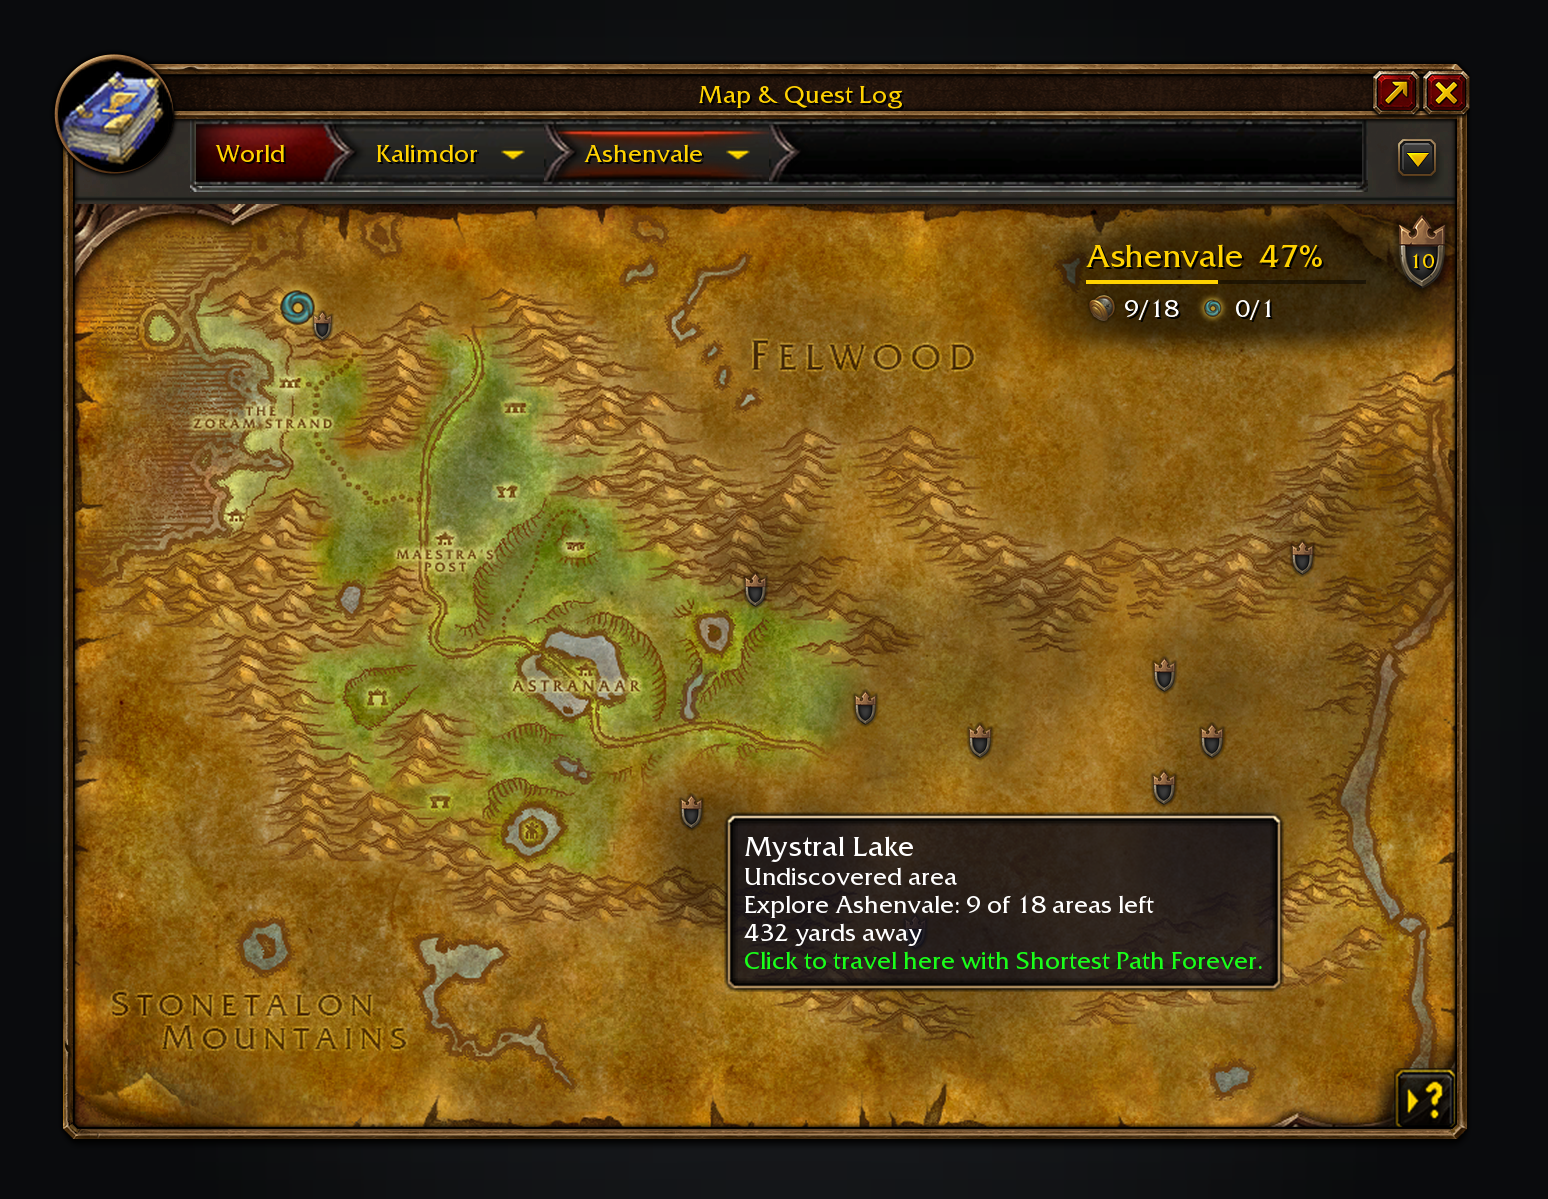
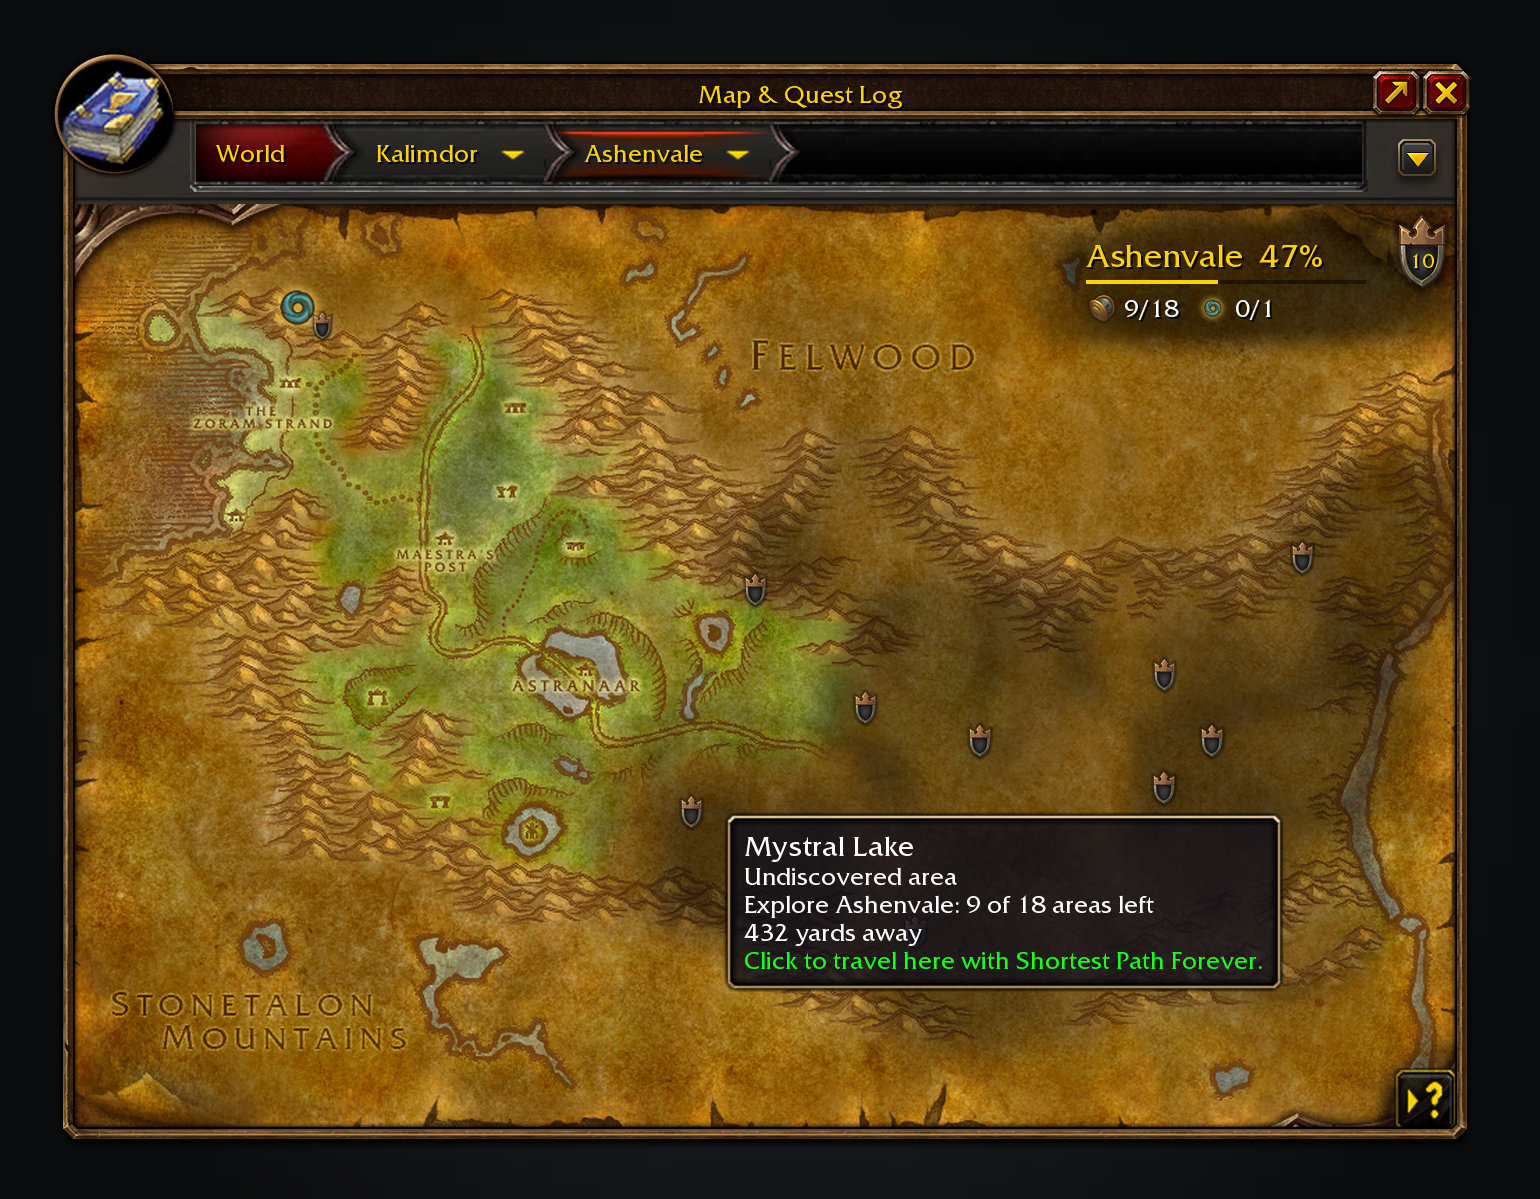
fix(map): draw area shading under other map markers (#488)
Area shading now draws under every other map marker, including Leatrix
Plus discovery pins and dungeon entrances.

- Area pins use the client's `PIN_FRAME_LEVEL_FOG_OF_WAR` level
(registered in `Blizzard_WorldMap`, used by `FogOfWarDataProvider`), so
other providers' pins sit above them. The manual `SetFrameLevel` /
`AreaLevel` is gone.
- The fade under outlined areas stays.

## Screenshot (mock render, head SHA)

![outlines](https://raw.githubusercontent.com/cjber/legacy-forever/b64b10c36b4b094a74097325f8bf20db64531e96/docs/screenshots/outlines.png)

## Target mocks from the issue

![mock](https://gist.githubusercontent.com/cjber/c5f910706d7357ab5f6601c9e6ca7946/raw/6645133a1770c516676333624c2e8b25ad4c7f12/485-target-both.png

https://gist.githubusercontent.com/cjber/c5f910706d7357ab5f6601c9e6ca7946/raw/6645133a1770c516676333624c2e8b25ad4c7f12/485-target-detail.png

https://gist.githubusercontent.com/cjber/c5f910706d7357ab5f6601c9e6ca7946/raw/6645133a1770c516676333624c2e8b25ad4c7f12/485-target-markers.png)

## /reload tests

1. Turn on each discover option alone, open Ashenvale: shading sits
under dungeon and Leatrix markers, markers stay clickable.
2. Both options together: same.
3. With Leatrix Plus disabled: shading and tooltips as before.

Gate: stylua, luacheck, every spec on ForeverCore v1.8.1.

Closes #485

🤖 Generated with [Claude Code](https://claude.com/claude-code)

https://claude.ai/code/session_01UkMWrygH9uoEwnn7ATzXHP

diff --git a/tools/screenshots.py b/tools/screenshots.py
@@ -524,7 +524,7 @@ def corner_origin(rects, art, zone, pins, width, height):
 def world_map(ui, data, live, ui_map=ASHENVALE, collapsed=False, entrance=False, outlines=None):
     """The world map on a Kalimdor zone with the addon's shading, pins, corner and button drawn in.
     `outlines` = {"zone": Data/Explore.lua's zone, "player_area": name, "hover": name} fills the areas that
-    have rings from their terrain instead of the map art, and draws the hovered pin's tooltip."""
+    have rings from their terrain on top of the dark fade, and draws the hovered pin's tooltip."""
     zone = data["completion"][ui_map]
     name = ui.table("UiMap")[str(ui_map)]["Name_lang"]
     content = ui.content
@@ -533,11 +533,10 @@ def world_map(ui, data, live, ui_map=ASHENVALE, collapsed=False, entrance=False,
     for overlay in map_overlays(content, ui_map):
         if overlay.key in live.explored:
             draw_overlay(content, art, overlay.offset_x, overlay.offset_y, overlay.width, overlay.height, overlay.tiles)
-    # AreaPin (UI/Map.lua): every undiscovered area's tiles, black at AREA_ALPHA, except the areas the
-    # outline layer draws instead (MapContents.Shade).
-    outlined = outlines["zone"]["areas"] if outlines else {}
+    # AreaPin (UI/Map.lua): every undiscovered area's tiles, black at AREA_ALPHA. The outline layer fills its
+    # areas on top, so both switches on keep the dark fade under the terrain fill.
     for area in zone["areas"]:
-        if area["key"] not in live.explored and area["key"] not in outlined:
+        if area["key"] not in live.explored:
             x, y, w, h = (int(n) for n in area["key"].split(":"))
             draw_overlay(content, art, x, y, w, h, area["tiles"], (0, 0, 0, 0.25), zone["tileWidth"])
     canvas, rects = world_map_frame(ui, art, ("World", "Kalimdor", name), arrows=("Kalimdor", name))
@@ -796,8 +795,8 @@ def zone_pin(ui, canvas, x, y, portal=None):
 
 
 def render_outlines(ui, data, live):
-    """Ashenvale with "Show where to discover areas" on: each undiscovered area shaded in its real shape, a
-    shield at its nearest edge, and the hovered pin's tooltip over Mystral Lake."""
+    """Ashenvale with both discover switches on: each undiscovered area keeps the dark fade and adds its real
+    ground shaded in its own shape, a shield at its nearest edge, and the hovered pin's tooltip over Mystral Lake."""
     explore = load_explore()["zones"][ASHENVALE]
     canvas, _ = world_map(
         ui,

diff --git a/tools/screenshots_outlines.py b/tools/screenshots_outlines.py
@@ -59,13 +59,18 @@ def shading_masks(root):
 
 
 def outline_shading(canvas, rects, zone, explore_zone, live, hover, masks_root=None, ui_map_id=None):
-    """Composite each runtime mask once, with the same normal and hover opacity."""
+    """Composite each runtime mask once, with the same normal and hover opacity, clipped to the map art.
+
+    UI/Map.lua gives every mask the map's own mask texture, so a fade that reaches the map's edge stops there.
+    """
     mx, my, mw, mh = rects["map"]
     masks = shading_masks(masks_root or Path(__file__).resolve().parent.parent)
     if ui_map_id is None:
         raise ValueError("outline_shading requires ui_map_id for the zone-qualified mask manifest")
     zone_masks = masks[ui_map_id]
     areas = outline_areas(zone, explore_zone, live)
+    map_left, map_top = canvas.px(mx), canvas.px(my)
+    layer = Image.new("RGBA", (canvas.px(mx + mw) - map_left, canvas.px(my + mh) - map_top), (0, 0, 0, 0))
     for area, _rings in areas:
         alpha = AREA_HOVER_ALPHA if area["name"] == hover else AREA_ALPHA
         descriptor = zone_masks[area["key"]]
@@ -77,5 +82,12 @@ def outline_shading(canvas, rects, zone, explore_zone, live, hover, masks_root=N
         scale_y = canvas.px(my + mh) - canvas.px(my)
         mask = mask.resize((round(width * scale_x / 1002), round(height * scale_y / 668)), Image.Resampling.BILINEAR)
         mask.putalpha(mask.getchannel("A").point(lambda value, scale=alpha: round(value * scale)))
-        canvas.image.alpha_composite(mask, (canvas.px(mx + left / 1002 * mw), canvas.px(my + top / 668 * mh)))
+        layer.alpha_composite(
+            mask,
+            (
+                canvas.px(mx + left / 1002 * mw) - map_left,
+                canvas.px(my + top / 668 * mh) - map_top,
+            ),
+        )
+    canvas.image.alpha_composite(layer, (map_left, map_top))
     return areas

diff --git a/CHANGELOG.md b/CHANGELOG.md
@@ -12,6 +12,8 @@ optional `### For addon authors` subsection after a version's player bullets.
 
 ## [Unreleased]
 
+- **Both discover switches now keep the dark fade, and the shading stays under every map marker.** With "Show undiscovered areas" and "Show where to discover areas" both on, each outlined area keeps its unexplored-ground shading under the terrain fill, so the map no longer loses the dark fade. The shading also takes the map's own fog-of-war layer instead of a level worked out per map, so Blizzard's dungeon entrances and other addons' markers such as Leatrix Maps always draw above it, including with Leatrix's reveal on and after zooming or reopening the map. Thanks to cotijelucie on Discord for the report and follow-up. (#485)
+
 ## [2.3.6] - 2026-11-12
 
 <!-- forever-core-sync -->
